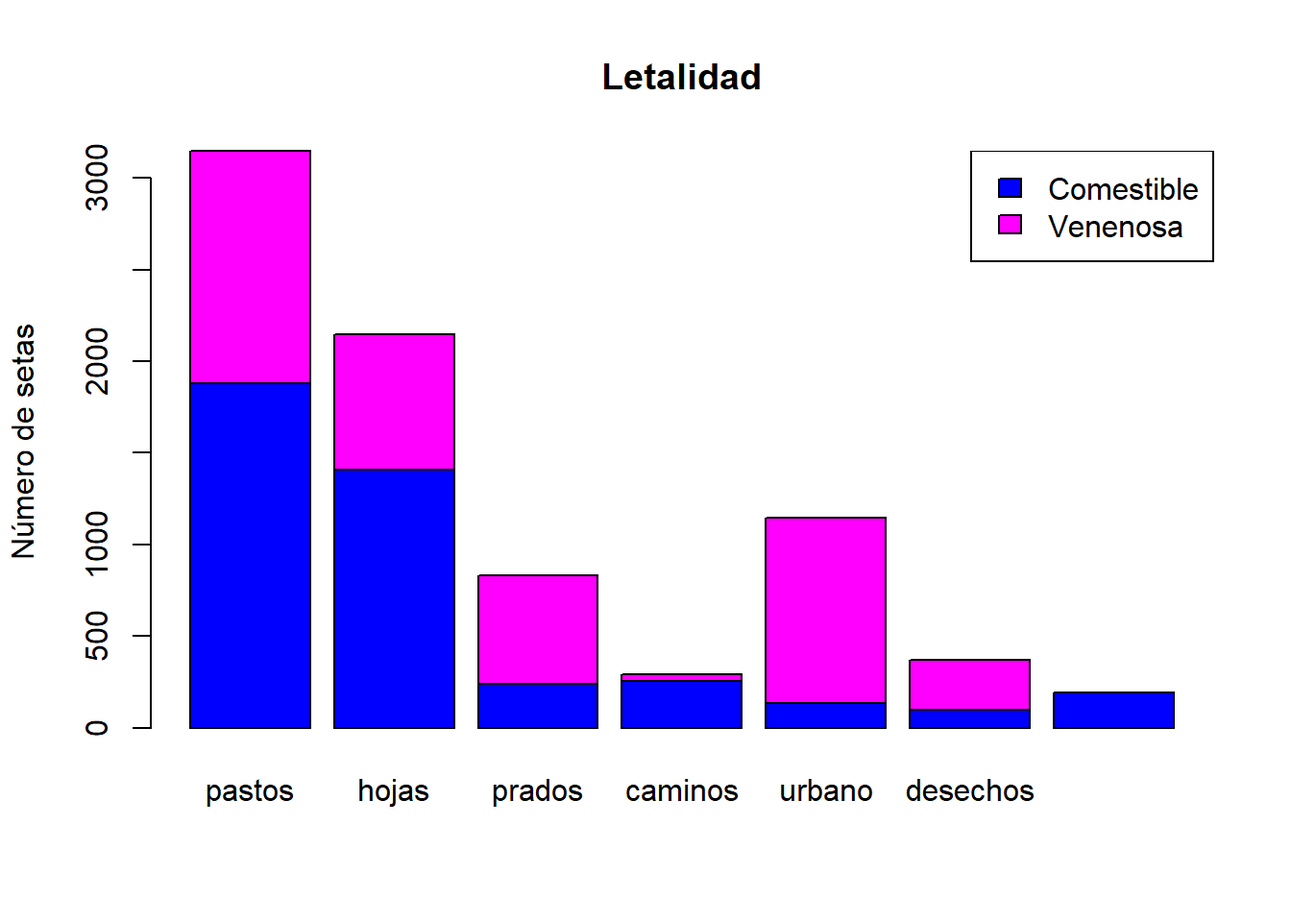
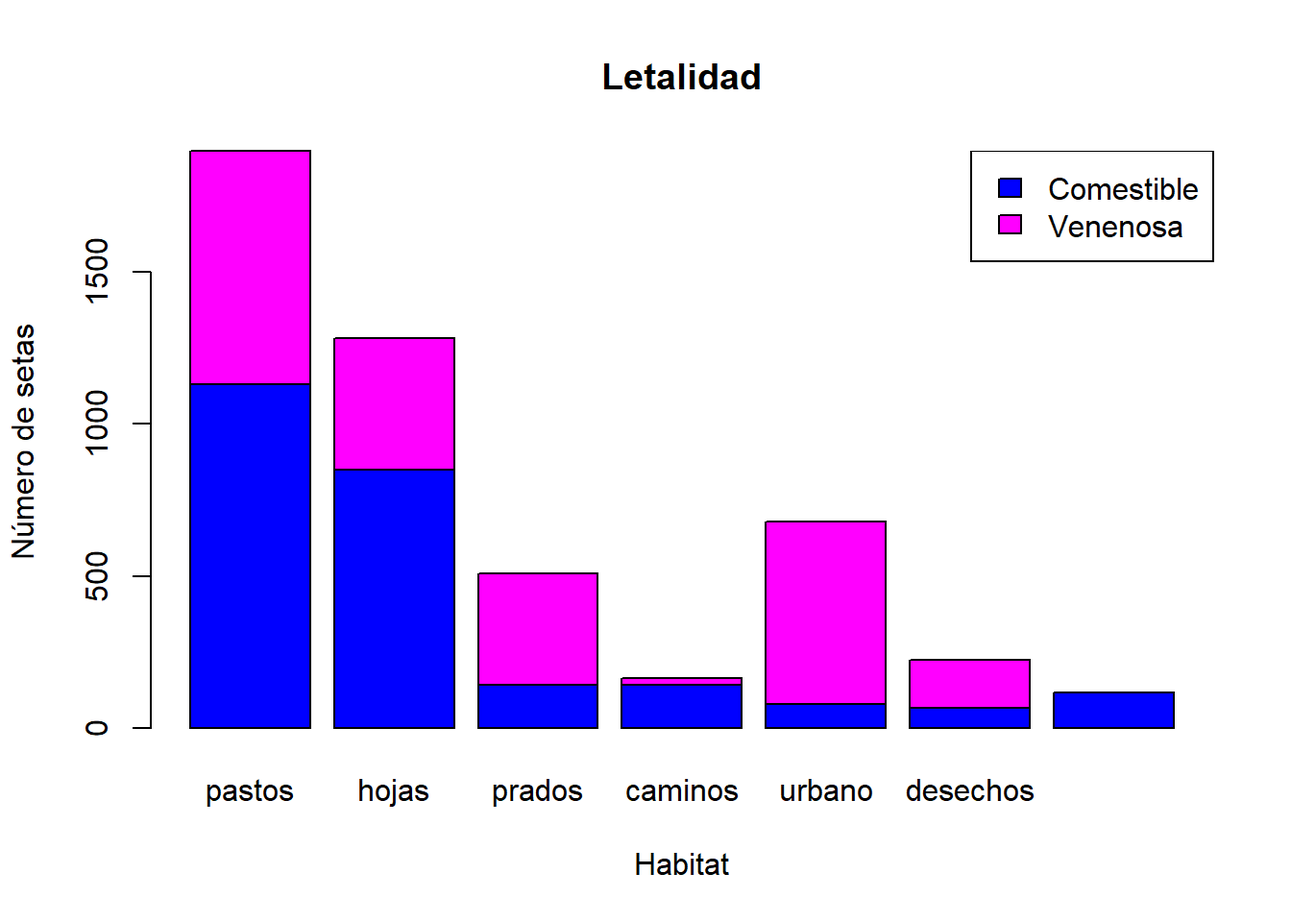
5

diff --git a/preprocesado-de-datos..html b/preprocesado-de-datos..html
@@ -134,7 +134,10 @@ code span.wa { color: #60a0b0; font-weight: bold; font-style: italic; } /* Warni
 <ul class="summary">
 <li class="chapter" data-level="1" data-path="introducción.html"><a href="introducción.html"><i class="fa fa-check"></i><b>1</b> Introducción</a></li>
 <li class="chapter" data-level="2" data-path="objetivos-del-negocio.html"><a href="objetivos-del-negocio.html"><i class="fa fa-check"></i><b>2</b> ¿ Objetivos (del negocio)?</a></li>
-<li class="chapter" data-level="3" data-path="datos.html"><a href="datos.html"><i class="fa fa-check"></i><b>3</b> Datos</a></li>
+<li class="chapter" data-level="3" data-path="datos.html"><a href="datos.html"><i class="fa fa-check"></i><b>3</b> Datos</a>
+<ul>
+<li class="chapter" data-level="3.1" data-path="datos.html"><a href="datos.html#particiones."><i class="fa fa-check"></i><b>3.1</b> Particiones.</a></li>
+</ul></li>
 <li class="chapter" data-level="4" data-path="preprocesado-de-datos..html"><a href="preprocesado-de-datos..html"><i class="fa fa-check"></i><b>4</b> Preprocesado de datos.</a>
 <ul>
 <li class="chapter" data-level="4.1" data-path="preprocesado-de-datos..html"><a href="preprocesado-de-datos..html#eda.-exploratory-data-analysis."><i class="fa fa-check"></i><b>4.1</b> EDA. Exploratory Data Analysis.</a>
@@ -180,57 +183,56 @@ code span.wa { color: #60a0b0; font-weight: bold; font-style: italic; } /* Warni
 <h1><span class="header-section-number">4</span> Preprocesado de datos.</h1>
 <p>Para poder tranformar las variables en factor, lo haremos mediante <strong>as.factor()</strong> a todas las variables de los datos.</p>
 <p>Ahora podemos ver mejor como son nuestros datos.</p>
-<div class="sourceCode" id="cb9"><pre class="sourceCode r"><code class="sourceCode r"><span id="cb9-1"><a href="preprocesado-de-datos..html#cb9-1" aria-hidden="true" tabindex="-1"></a><span class="fu">summary</span>(datos.setas)</span></code></pre></div>
+<div class="sourceCode" id="cb9"><pre class="sourceCode r"><code class="sourceCode r"><span id="cb9-1"><a href="preprocesado-de-datos..html#cb9-1" aria-hidden="true" tabindex="-1"></a><span class="fu">summary</span>(datos.setas_train)</span></code></pre></div>
 <pre><code>##  Letalidad Forma_S  Cuticula    Color_S     Escamas       Olor      Fijacion_L
-##  e:4208    b: 452   f:2320   n      :2284   f:4748   n      :3528   a: 210    
-##  p:3916    c:   4   g:   4   g      :1840   t:3376   f      :2160   f:7914    
-##            f:3152   s:2556   e      :1500            s      : 576             
-##            k: 828   y:3244   y      :1072            y      : 576             
-##            s:  32            w      :1040            a      : 400             
-##            x:3656            b      : 168            l      : 400             
-##                              (Other): 220            (Other): 484             
+##  e:2522    b: 252   f:1401   n      :1394   f:2868   n      :2127   a: 114    
+##  p:2352    c:   2   g:   3   g      :1103   t:2006   f      :1276   f:4760    
+##            f:1882   s:1529   e      : 903            s      : 365             
+##            k: 489   y:1941   y      : 626            y      : 348             
+##            s:  21            w      : 615            a      : 234             
+##            x:2228            b      :  96            l      : 228             
+##                              (Other): 137            (Other): 296             
 ##  Espacio_L Tamaño_L    Color_L     Forma_T  Tallo_raiz Superficie_T1
-##  c:6812    b:5612   b      :1728   e:3516   ?:2480     f: 552       
-##  w:1312    n:2512   p      :1492   t:4608   b:3776     k:2372       
-##                     w      :1202            c: 556     s:5176       
-##                     n      :1048            e:1120     y:  24       
-##                     g      : 752            r: 192                  
-##                     h      : 732                                    
-##                     (Other):1170                                    
+##  c:4097    b:3329   b      :1062   e:2089   ?:1499     f: 325       
+##  w: 777    n:1545   p      : 883   t:2785   b:2236     k:1413       
+##                     w      : 701            c: 324     s:3124       
+##                     n      : 623            e: 701     y:  12       
+##                     g      : 459            r: 114                  
+##                     h      : 426                                    
+##                     (Other): 720                                    
 ##  Superficie_T2    Color_T1       Color_T2    Tipo_V   Color_V  N_anillos
-##  f: 600        w      :4464   w      :4384   p:8124   n:  96   n:  36   
-##  k:2304        p      :1872   p      :1872            o:  96   o:7488   
-##  s:4936        g      : 576   g      : 576            w:7924   t: 600   
-##  y: 284        n      : 448   n      : 512            y:   8            
-##                b      : 432   b      : 432                              
-##                o      : 192   o      : 192                              
-##                (Other): 140   (Other): 156                              
+##  f: 369        w      :2681   w      :2632   p:4874   n:  53   n:  19   
+##  k:1376        p      :1127   p      :1132            o:  54   o:4511   
+##  s:2965        g      : 358   g      : 354            w:4763   t: 344   
+##  y: 164        n      : 270   n      : 310            y:   4            
+##                b      : 248   b      : 255                              
+##                o      : 107   o      : 107                              
+##                (Other):  83   (Other):  84                              
 ##  Tipo_anillo Color_esporas  Poblacion Habitat 
-##  e:2776      w      :2388   a: 384    d:3148  
-##  f:  48      n      :1968   c: 340    g:2148  
-##  l:1296      k      :1872   n: 400    l: 832  
-##  n:  36      h      :1632   s:1248    m: 292  
-##  p:3968      r      :  72   v:4040    p:1144  
-##              b      :  48   y:1712    u: 368  
-##              (Other): 144             w: 192</code></pre>
+##  e:1708      w      :1448   a: 241    d:1900  
+##  f:  32      n      :1219   c: 204    g:1284  
+##  l: 768      k      :1113   n: 223    l: 509  
+##  n:  19      h      : 959   s: 735    m: 163  
+##  p:2347      r      :  39   v:2434    p: 680  
+##              o      :  26   y:1037    u: 222  
+##              (Other):  70             w: 116</code></pre>
 <div id="eda.-exploratory-data-analysis." class="section level2" number="4.1">
 <h2><span class="header-section-number">4.1</span> EDA. Exploratory Data Analysis.</h2>
-<div class="sourceCode" id="cb11"><pre class="sourceCode r"><code class="sourceCode r"><span id="cb11-1"><a href="preprocesado-de-datos..html#cb11-1" aria-hidden="true" tabindex="-1"></a><span class="fu">attach</span>(datos.setas)</span></code></pre></div>
 <div id="letalidad" class="section level3" number="4.1.1">
 <h3><span class="header-section-number">4.1.1</span> Letalidad:</h3>
 <p>La variable <strong>letalidad</strong> tiene dos niveles distintos, venenosa (p) o comestible (e), la frecuencia relativa correspondiente a nuestros datos es:</p>
-<div class="sourceCode" id="cb12"><pre class="sourceCode r"><code class="sourceCode r"><span id="cb12-1"><a href="preprocesado-de-datos..html#cb12-1" aria-hidden="true" tabindex="-1"></a><span class="co">#Tabla:</span></span>
-<span id="cb12-2"><a href="preprocesado-de-datos..html#cb12-2" aria-hidden="true" tabindex="-1"></a><span class="fu">table</span>(datos.setas<span class="sc">$</span>Letalidad)</span></code></pre></div>
+<div class="sourceCode" id="cb11"><pre class="sourceCode r"><code class="sourceCode r"><span id="cb11-1"><a href="preprocesado-de-datos..html#cb11-1" aria-hidden="true" tabindex="-1"></a><span class="co">#Tabla:</span></span>
+<span id="cb11-2"><a href="preprocesado-de-datos..html#cb11-2" aria-hidden="true" tabindex="-1"></a><span class="fu">table</span>(datos.setas_train<span class="sc">$</span>Letalidad)</span></code></pre></div>
 <pre><code>## 
 ##    e    p 
-## 4208 3916</code></pre>
-<div class="sourceCode" id="cb14"><pre class="sourceCode r"><code class="sourceCode r"><span id="cb14-1"><a href="preprocesado-de-datos..html#cb14-1" aria-hidden="true" tabindex="-1"></a><span class="co">#Tabla de frecuencias:</span></span>
-<span id="cb14-2"><a href="preprocesado-de-datos..html#cb14-2" aria-hidden="true" tabindex="-1"></a><span class="fu">prop.table</span>(<span class="fu">table</span>(datos.setas<span class="sc">$</span>Letalidad))</span></code></pre></div>
+## 2522 2352</code></pre>
+<div class="sourceCode" id="cb13"><pre class="sourceCode r"><code class="sourceCode r"><span id="cb13-1"><a href="preprocesado-de-datos..html#cb13-1" aria-hidden="true" tabindex="-1"></a><span class="co">#Tabla de frecuencias:</span></span>
+<span id="cb13-2"><a href="preprocesado-de-datos..html#cb13-2" aria-hidden="true" tabindex="-1"></a><span class="fu">prop.table</span>(<span class="fu">table</span>(datos.setas_train<span class="sc">$</span>Letalidad))</span></code></pre></div>
 <pre><code>## 
 ##         e         p 
-## 0.5179714 0.4820286</code></pre>
-<div class="sourceCode" id="cb16"><pre class="sourceCode r"><code class="sourceCode r"><span id="cb16-1"><a href="preprocesado-de-datos..html#cb16-1" aria-hidden="true" tabindex="-1"></a><span class="co">#Gráfico</span></span>
-<span id="cb16-2"><a href="preprocesado-de-datos..html#cb16-2" aria-hidden="true" tabindex="-1"></a><span class="fu">barplot</span>(<span class="fu">table</span>(datos.setas<span class="sc">$</span>Letalidad),<span class="at">main=</span><span class="st">&quot;Letalidad&quot;</span>,<span class="at">ylab=</span><span class="st">&quot;Número de setas&quot;</span>,<span class="at">col=</span><span class="fu">c</span>(<span class="st">&quot;blue&quot;</span>,<span class="st">&quot;magenta&quot;</span>),<span class="at">names.arg=</span><span class="fu">c</span>(<span class="st">&quot;Comestible&quot;</span>,<span class="st">&quot;Venenosa&quot;</span>))</span></code></pre></div>
+## 0.5174395 0.4825605</code></pre>
+<div class="sourceCode" id="cb15"><pre class="sourceCode r"><code class="sourceCode r"><span id="cb15-1"><a href="preprocesado-de-datos..html#cb15-1" aria-hidden="true" tabindex="-1"></a><span class="co">#Gráfico</span></span>
+<span id="cb15-2"><a href="preprocesado-de-datos..html#cb15-2" aria-hidden="true" tabindex="-1"></a><span class="fu">barplot</span>(<span class="fu">table</span>(datos.setas_train<span class="sc">$</span>Letalidad),<span class="at">main=</span><span class="st">&quot;Letalidad&quot;</span>,<span class="at">ylab=</span><span class="st">&quot;Número de setas&quot;</span>,<span class="at">col=</span><span class="fu">c</span>(<span class="st">&quot;blue&quot;</span>,<span class="st">&quot;magenta&quot;</span>),<span class="at">names.arg=</span><span class="fu">c</span>(<span class="st">&quot;Comestible&quot;</span>,<span class="st">&quot;Venenosa&quot;</span>))</span></code></pre></div>
 <p><img src="MEMORIA_files/figure-html/proporcion-1.png" width="672" /></p>
 <p>Podríamos transformar esta variable para que fuera interpretada como binaria numérica (0-comestible, 1-venenosa)</p>
 <p>Una de las variables, <strong>Tipo_v</strong> tipo de volva, con dos niveles distintos, parcial (p) y universal (u), podríamos eliminarla de nuestros datos pues todo la frecuencia solo está en uno de los niveles, luego no aporta información alguna para determinar si es venenosa o comestible.</p>
@@ -239,25 +241,25 @@ code span.wa { color: #60a0b0; font-weight: bold; font-style: italic; } /* Warni
 <div id="correlación-entre-las-variables." class="section level2" number="4.2">
 <h2><span class="header-section-number">4.2</span> Correlación entre las variables.</h2>
 <p>Vamos a comprobar si existe alguna correlación entre las distintas variables.</p>
-<div class="sourceCode" id="cb17"><pre class="sourceCode r"><code class="sourceCode r"><span id="cb17-1"><a href="preprocesado-de-datos..html#cb17-1" aria-hidden="true" tabindex="-1"></a><span class="co">#Tabla de frecuencias letalidad~habitat</span></span>
-<span id="cb17-2"><a href="preprocesado-de-datos..html#cb17-2" aria-hidden="true" tabindex="-1"></a><span class="fu">table</span>(datos.setas<span class="sc">$</span>Letalidad,datos.setas<span class="sc">$</span>Habitat)</span></code></pre></div>
+<div class="sourceCode" id="cb16"><pre class="sourceCode r"><code class="sourceCode r"><span id="cb16-1"><a href="preprocesado-de-datos..html#cb16-1" aria-hidden="true" tabindex="-1"></a><span class="co">#Tabla de frecuencias letalidad~habitat</span></span>
+<span id="cb16-2"><a href="preprocesado-de-datos..html#cb16-2" aria-hidden="true" tabindex="-1"></a><span class="fu">table</span>(datos.setas_train<span class="sc">$</span>Letalidad,datos.setas_train<span class="sc">$</span>Habitat)</span></code></pre></div>
 <pre><code>##    
 ##        d    g    l    m    p    u    w
-##   e 1880 1408  240  256  136   96  192
-##   p 1268  740  592   36 1008  272    0</code></pre>
-<div class="sourceCode" id="cb19"><pre class="sourceCode r"><code class="sourceCode r"><span id="cb19-1"><a href="preprocesado-de-datos..html#cb19-1" aria-hidden="true" tabindex="-1"></a><span class="co">#Gráfico letalidad~habitat</span></span>
-<span id="cb19-2"><a href="preprocesado-de-datos..html#cb19-2" aria-hidden="true" tabindex="-1"></a><span class="fu">barplot</span>(<span class="fu">table</span>(datos.setas<span class="sc">$</span>Letalidad,datos.setas<span class="sc">$</span>Habitat),<span class="at">main=</span><span class="st">&quot;Letalidad&quot;</span>,<span class="at">ylab=</span><span class="st">&quot;Número de setas&quot;</span>,<span class="at">names.arg=</span><span class="fu">c</span>(<span class="st">&quot;pastos&quot;</span>, <span class="st">&quot;hojas&quot;</span>, <span class="st">&quot;prados&quot;</span>, <span class="st">&quot;caminos&quot;</span>, <span class="st">&quot;urbano&quot;</span>, <span class="st">&quot;desechos&quot;</span>, <span class="st">&quot;bosques&quot;</span>),<span class="at">col=</span><span class="fu">c</span>(<span class="st">&quot;blue&quot;</span>,<span class="st">&quot;magenta&quot;</span>))</span>
-<span id="cb19-3"><a href="preprocesado-de-datos..html#cb19-3" aria-hidden="true" tabindex="-1"></a><span class="fu">legend</span>(<span class="at">x =</span> <span class="st">&quot;topright&quot;</span>, <span class="at">legend =</span> <span class="fu">c</span>(<span class="st">&quot;Comestible&quot;</span>,<span class="st">&quot;Venenosa&quot;</span>), <span class="at">fill =</span> <span class="fu">c</span>(<span class="st">&quot;blue&quot;</span>, <span class="st">&quot;magenta&quot;</span>))</span></code></pre></div>
+##   e 1130  849  141  142   79   65  116
+##   p  770  435  368   21  601  157    0</code></pre>
+<div class="sourceCode" id="cb18"><pre class="sourceCode r"><code class="sourceCode r"><span id="cb18-1"><a href="preprocesado-de-datos..html#cb18-1" aria-hidden="true" tabindex="-1"></a><span class="co">#Gráfico letalidad~habitat</span></span>
+<span id="cb18-2"><a href="preprocesado-de-datos..html#cb18-2" aria-hidden="true" tabindex="-1"></a><span class="fu">barplot</span>(<span class="fu">table</span>(datos.setas_train<span class="sc">$</span>Letalidad,datos.setas_train<span class="sc">$</span>Habitat),<span class="at">main=</span><span class="st">&quot;Letalidad&quot;</span>,<span class="at">xlab=</span><span class="st">&quot;Habitat&quot;</span>,<span class="at">ylab=</span><span class="st">&quot;Número de setas&quot;</span>,<span class="at">names.arg=</span><span class="fu">c</span>(<span class="st">&quot;pastos&quot;</span>, <span class="st">&quot;hojas&quot;</span>, <span class="st">&quot;prados&quot;</span>, <span class="st">&quot;caminos&quot;</span>, <span class="st">&quot;urbano&quot;</span>, <span class="st">&quot;desechos&quot;</span>, <span class="st">&quot;bosques&quot;</span>),<span class="at">col=</span><span class="fu">c</span>(<span class="st">&quot;blue&quot;</span>,<span class="st">&quot;magenta&quot;</span>))</span>
+<span id="cb18-3"><a href="preprocesado-de-datos..html#cb18-3" aria-hidden="true" tabindex="-1"></a><span class="fu">legend</span>(<span class="at">x =</span> <span class="st">&quot;topright&quot;</span>, <span class="at">legend =</span> <span class="fu">c</span>(<span class="st">&quot;Comestible&quot;</span>,<span class="st">&quot;Venenosa&quot;</span>), <span class="at">fill =</span> <span class="fu">c</span>(<span class="st">&quot;blue&quot;</span>, <span class="st">&quot;magenta&quot;</span>))</span></code></pre></div>
 <p><img src="MEMORIA_files/figure-html/correlacion-1.png" width="672" /></p>
-<div class="sourceCode" id="cb20"><pre class="sourceCode r"><code class="sourceCode r"><span id="cb20-1"><a href="preprocesado-de-datos..html#cb20-1" aria-hidden="true" tabindex="-1"></a><span class="co">#Tabla de frecuencias letalidad~poblacion</span></span>
-<span id="cb20-2"><a href="preprocesado-de-datos..html#cb20-2" aria-hidden="true" tabindex="-1"></a><span class="fu">table</span>(datos.setas<span class="sc">$</span>Letalidad,datos.setas<span class="sc">$</span>Poblacion)</span></code></pre></div>
+<div class="sourceCode" id="cb19"><pre class="sourceCode r"><code class="sourceCode r"><span id="cb19-1"><a href="preprocesado-de-datos..html#cb19-1" aria-hidden="true" tabindex="-1"></a><span class="co">#Tabla de frecuencias letalidad~poblacion</span></span>
+<span id="cb19-2"><a href="preprocesado-de-datos..html#cb19-2" aria-hidden="true" tabindex="-1"></a><span class="fu">table</span>(datos.setas_train<span class="sc">$</span>Letalidad,datos.setas_train<span class="sc">$</span>Poblacion)</span></code></pre></div>
 <pre><code>##    
 ##        a    c    n    s    v    y
-##   e  384  288  400  880 1192 1064
-##   p    0   52    0  368 2848  648</code></pre>
-<div class="sourceCode" id="cb22"><pre class="sourceCode r"><code class="sourceCode r"><span id="cb22-1"><a href="preprocesado-de-datos..html#cb22-1" aria-hidden="true" tabindex="-1"></a><span class="co">#Gráfico letalidad~habitat</span></span>
-<span id="cb22-2"><a href="preprocesado-de-datos..html#cb22-2" aria-hidden="true" tabindex="-1"></a><span class="fu">barplot</span>(<span class="fu">table</span>(datos.setas<span class="sc">$</span>Letalidad,datos.setas<span class="sc">$</span>Poblacion),<span class="at">main=</span><span class="st">&quot;Letalidad&quot;</span>,<span class="at">ylab=</span><span class="st">&quot;Número de setas&quot;</span>,<span class="at">names.arg=</span><span class="fu">c</span>(<span class="st">&quot;abundante&quot;</span>, <span class="st">&quot;agrupada&quot;</span>, <span class="st">&quot;numerosa&quot;</span>, <span class="st">&quot;dispersa&quot;</span>, <span class="st">&quot;varias&quot;</span>, <span class="st">&quot;solitaria&quot;</span>),<span class="at">col=</span><span class="fu">c</span>(<span class="st">&quot;blue&quot;</span>,<span class="st">&quot;magenta&quot;</span>))</span>
-<span id="cb22-3"><a href="preprocesado-de-datos..html#cb22-3" aria-hidden="true" tabindex="-1"></a><span class="fu">legend</span>(<span class="at">x =</span> <span class="st">&quot;topright&quot;</span>, <span class="at">legend =</span> <span class="fu">c</span>(<span class="st">&quot;Comestible&quot;</span>,<span class="st">&quot;Venenosa&quot;</span>), <span class="at">fill =</span> <span class="fu">c</span>(<span class="st">&quot;blue&quot;</span>, <span class="st">&quot;magenta&quot;</span>))</span></code></pre></div>
+##   e  241  176  223  530  707  645
+##   p    0   28    0  205 1727  392</code></pre>
+<div class="sourceCode" id="cb21"><pre class="sourceCode r"><code class="sourceCode r"><span id="cb21-1"><a href="preprocesado-de-datos..html#cb21-1" aria-hidden="true" tabindex="-1"></a><span class="co">#Gráfico letalidad~habitat</span></span>
+<span id="cb21-2"><a href="preprocesado-de-datos..html#cb21-2" aria-hidden="true" tabindex="-1"></a><span class="fu">barplot</span>(<span class="fu">table</span>(datos.setas_train<span class="sc">$</span>Letalidad,datos.setas_train<span class="sc">$</span>Poblacion),<span class="at">main=</span><span class="st">&quot;Letalidad&quot;</span>,<span class="at">xlab=</span><span class="st">&quot;Poblacion&quot;</span>,<span class="at">ylab=</span><span class="st">&quot;Número de setas&quot;</span>,<span class="at">names.arg=</span><span class="fu">c</span>(<span class="st">&quot;abundante&quot;</span>, <span class="st">&quot;agrupada&quot;</span>, <span class="st">&quot;numerosa&quot;</span>, <span class="st">&quot;dispersa&quot;</span>, <span class="st">&quot;varias&quot;</span>, <span class="st">&quot;solitaria&quot;</span>),<span class="at">col=</span><span class="fu">c</span>(<span class="st">&quot;blue&quot;</span>,<span class="st">&quot;magenta&quot;</span>))</span>
+<span id="cb21-3"><a href="preprocesado-de-datos..html#cb21-3" aria-hidden="true" tabindex="-1"></a><span class="fu">legend</span>(<span class="at">x =</span> <span class="st">&quot;topright&quot;</span>, <span class="at">legend =</span> <span class="fu">c</span>(<span class="st">&quot;Comestible&quot;</span>,<span class="st">&quot;Venenosa&quot;</span>), <span class="at">fill =</span> <span class="fu">c</span>(<span class="st">&quot;blue&quot;</span>, <span class="st">&quot;magenta&quot;</span>))</span></code></pre></div>
 <p><img src="MEMORIA_files/figure-html/correlacion-2.png" width="672" /></p>
 </div>
 <div id="transformación-de-variables" class="section level2" number="4.3">

diff --git a/datos.html b/datos.html
@@ -134,7 +134,10 @@ code span.wa { color: #60a0b0; font-weight: bold; font-style: italic; } /* Warni
 <ul class="summary">
 <li class="chapter" data-level="1" data-path="introducción.html"><a href="introducción.html"><i class="fa fa-check"></i><b>1</b> Introducción</a></li>
 <li class="chapter" data-level="2" data-path="objetivos-del-negocio.html"><a href="objetivos-del-negocio.html"><i class="fa fa-check"></i><b>2</b> ¿ Objetivos (del negocio)?</a></li>
-<li class="chapter" data-level="3" data-path="datos.html"><a href="datos.html"><i class="fa fa-check"></i><b>3</b> Datos</a></li>
+<li class="chapter" data-level="3" data-path="datos.html"><a href="datos.html"><i class="fa fa-check"></i><b>3</b> Datos</a>
+<ul>
+<li class="chapter" data-level="3.1" data-path="datos.html"><a href="datos.html#particiones."><i class="fa fa-check"></i><b>3.1</b> Particiones.</a></li>
+</ul></li>
 <li class="chapter" data-level="4" data-path="preprocesado-de-datos..html"><a href="preprocesado-de-datos..html"><i class="fa fa-check"></i><b>4</b> Preprocesado de datos.</a>
 <ul>
 <li class="chapter" data-level="4.1" data-path="preprocesado-de-datos..html"><a href="preprocesado-de-datos..html#eda.-exploratory-data-analysis."><i class="fa fa-check"></i><b>4.1</b> EDA. Exploratory Data Analysis.</a>
@@ -179,13 +182,13 @@ code span.wa { color: #60a0b0; font-weight: bold; font-style: italic; } /* Warni
 <div id="datos" class="section level1" number="3">
 <h1><span class="header-section-number">3</span> Datos</h1>
 <p>Leemos los datos mediante el siguiente comando:</p>
-<div class="sourceCode" id="cb3"><pre class="sourceCode r"><code class="sourceCode r"><span id="cb3-1"><a href="datos.html#cb3-1" aria-hidden="true" tabindex="-1"></a>datos.setas<span class="ot">&lt;-</span><span class="fu">read.table</span>(<span class="st">&quot;D:/URJC/CURSO 2021-2022/ASIGNATURAS/CUATRIMESTRE 1/MINERIA DE DATOS/MEMORIA/DATOS/agaricus-lepiota.data&quot;</span>,<span class="at">header=</span><span class="cn">FALSE</span>,<span class="at">sep=</span><span class="st">&quot;,&quot;</span>)</span></code></pre></div>
+<div class="sourceCode" id="cb2"><pre class="sourceCode r"><code class="sourceCode r"><span id="cb2-1"><a href="datos.html#cb2-1" aria-hidden="true" tabindex="-1"></a>datos.setas<span class="ot">&lt;-</span><span class="fu">read.table</span>(<span class="st">&quot;D:/URJC/CURSO 2021-2022/ASIGNATURAS/CUATRIMESTRE 1/MINERIA DE DATOS/MEMORIA/DATOS/agaricus-lepiota.data&quot;</span>,<span class="at">header=</span><span class="cn">FALSE</span>,<span class="at">sep=</span><span class="st">&quot;,&quot;</span>)</span></code></pre></div>
 <p>Comprobamos que se han leído correctamente los datos mirando la dimensión de los datos.</p>
-<div class="sourceCode" id="cb4"><pre class="sourceCode r"><code class="sourceCode r"><span id="cb4-1"><a href="datos.html#cb4-1" aria-hidden="true" tabindex="-1"></a><span class="fu">dim</span>(datos.setas)</span></code></pre></div>
+<div class="sourceCode" id="cb3"><pre class="sourceCode r"><code class="sourceCode r"><span id="cb3-1"><a href="datos.html#cb3-1" aria-hidden="true" tabindex="-1"></a><span class="fu">dim</span>(datos.setas)</span></code></pre></div>
 <pre><code>## [1] 8124   23</code></pre>
 <p>Como ya hemos visto, disponemos de 8124 observaciones de setas de las cuales hemos recogido información sobre 23 características.</p>
 <p>Realizamos una exploración básica de los datos para comprobar que tipo de datos disponemos.</p>
-<div class="sourceCode" id="cb6"><pre class="sourceCode r"><code class="sourceCode r"><span id="cb6-1"><a href="datos.html#cb6-1" aria-hidden="true" tabindex="-1"></a><span class="fu">summary</span>(datos.setas)</span></code></pre></div>
+<div class="sourceCode" id="cb5"><pre class="sourceCode r"><code class="sourceCode r"><span id="cb5-1"><a href="datos.html#cb5-1" aria-hidden="true" tabindex="-1"></a><span class="fu">summary</span>(datos.setas)</span></code></pre></div>
 <pre><code>##       V1                 V2                 V3                 V4           
 ##  Length:8124        Length:8124        Length:8124        Length:8124       
 ##  Class :character   Class :character   Class :character   Class :character  
@@ -318,7 +321,26 @@ code span.wa { color: #60a0b0; font-weight: bold; font-style: italic; } /* Warni
 </tbody>
 </table>
 <p>Vamos a llamar a las variables como la caracteristica que ejemplifican.</p>
-<div class="sourceCode" id="cb8"><pre class="sourceCode r"><code class="sourceCode r"><span id="cb8-1"><a href="datos.html#cb8-1" aria-hidden="true" tabindex="-1"></a><span class="fu">colnames</span>(datos.setas)<span class="ot">=</span><span class="fu">c</span>(<span class="st">&quot;Letalidad&quot;</span>,<span class="st">&quot;Forma_S&quot;</span>,<span class="st">&quot;Cuticula&quot;</span>,<span class="st">&quot;Color_S&quot;</span>,<span class="st">&quot;Escamas&quot;</span>,<span class="st">&quot;Olor&quot;</span>,<span class="st">&quot;Fijacion_L&quot;</span>,<span class="st">&quot;Espacio_L&quot;</span>,<span class="st">&quot;Tamaño_L&quot;</span>,<span class="st">&quot;Color_L&quot;</span>,<span class="st">&quot;Forma_T&quot;</span>,<span class="st">&quot;Tallo_raiz&quot;</span>,<span class="st">&quot;Superficie_T1&quot;</span>,<span class="st">&quot;Superficie_T2&quot;</span>,<span class="st">&quot;Color_T1&quot;</span>,<span class="st">&quot;Color_T2&quot;</span>,<span class="st">&quot;Tipo_V&quot;</span>,<span class="st">&quot;Color_V&quot;</span>,<span class="st">&quot;N_anillos&quot;</span>,<span class="st">&quot;Tipo_anillo&quot;</span>,<span class="st">&quot;Color_esporas&quot;</span>,<span class="st">&quot;Poblacion&quot;</span>,<span class="st">&quot;Habitat&quot;</span>)</span></code></pre></div>
+<div class="sourceCode" id="cb7"><pre class="sourceCode r"><code class="sourceCode r"><span id="cb7-1"><a href="datos.html#cb7-1" aria-hidden="true" tabindex="-1"></a><span class="fu">colnames</span>(datos.setas)<span class="ot">=</span><span class="fu">c</span>(<span class="st">&quot;Letalidad&quot;</span>,<span class="st">&quot;Forma_S&quot;</span>,<span class="st">&quot;Cuticula&quot;</span>,<span class="st">&quot;Color_S&quot;</span>,<span class="st">&quot;Escamas&quot;</span>,<span class="st">&quot;Olor&quot;</span>,<span class="st">&quot;Fijacion_L&quot;</span>,<span class="st">&quot;Espacio_L&quot;</span>,<span class="st">&quot;Tamaño_L&quot;</span>,<span class="st">&quot;Color_L&quot;</span>,<span class="st">&quot;Forma_T&quot;</span>,<span class="st">&quot;Tallo_raiz&quot;</span>,<span class="st">&quot;Superficie_T1&quot;</span>,<span class="st">&quot;Superficie_T2&quot;</span>,<span class="st">&quot;Color_T1&quot;</span>,<span class="st">&quot;Color_T2&quot;</span>,<span class="st">&quot;Tipo_V&quot;</span>,<span class="st">&quot;Color_V&quot;</span>,<span class="st">&quot;N_anillos&quot;</span>,<span class="st">&quot;Tipo_anillo&quot;</span>,<span class="st">&quot;Color_esporas&quot;</span>,<span class="st">&quot;Poblacion&quot;</span>,<span class="st">&quot;Habitat&quot;</span>)</span></code></pre></div>
+<div id="particiones." class="section level2" number="3.1">
+<h2><span class="header-section-number">3.1</span> Particiones.</h2>
+<div class="sourceCode" id="cb8"><pre class="sourceCode r"><code class="sourceCode r"><span id="cb8-1"><a href="datos.html#cb8-1" aria-hidden="true" tabindex="-1"></a>n_totales<span class="ot">=</span><span class="fu">dim</span>(datos.setas)[<span class="dv">1</span>]</span>
+<span id="cb8-2"><a href="datos.html#cb8-2" aria-hidden="true" tabindex="-1"></a>n_train<span class="ot">=</span><span class="fu">floor</span>(n_totales<span class="sc">*</span><span class="fl">0.6</span>) <span class="co"># el 60% de los datos los utilizamos para entrenar los modelos</span></span>
+<span id="cb8-3"><a href="datos.html#cb8-3" aria-hidden="true" tabindex="-1"></a>n_test<span class="ot">=</span><span class="fu">floor</span>(n_totales<span class="sc">*</span><span class="fl">0.2</span>) <span class="co"># el 20% para test</span></span>
+<span id="cb8-4"><a href="datos.html#cb8-4" aria-hidden="true" tabindex="-1"></a>n_validacion<span class="ot">=</span>n_totales<span class="sc">-</span>n_train<span class="sc">-</span>n_test</span>
+<span id="cb8-5"><a href="datos.html#cb8-5" aria-hidden="true" tabindex="-1"></a></span>
+<span id="cb8-6"><a href="datos.html#cb8-6" aria-hidden="true" tabindex="-1"></a><span class="fu">set.seed</span>(<span class="dv">34735</span>)</span>
+<span id="cb8-7"><a href="datos.html#cb8-7" aria-hidden="true" tabindex="-1"></a></span>
+<span id="cb8-8"><a href="datos.html#cb8-8" aria-hidden="true" tabindex="-1"></a>indices_totales<span class="ot">=</span><span class="fu">seq</span>(<span class="dv">1</span><span class="sc">:</span>n_totales)</span>
+<span id="cb8-9"><a href="datos.html#cb8-9" aria-hidden="true" tabindex="-1"></a>indices_train<span class="ot">=</span><span class="fu">sample</span>(indices_totales,n_train)</span>
+<span id="cb8-10"><a href="datos.html#cb8-10" aria-hidden="true" tabindex="-1"></a>indices_test<span class="ot">=</span><span class="fu">sample</span>(indices_totales[<span class="sc">-</span>indices_train],n_test)</span>
+<span id="cb8-11"><a href="datos.html#cb8-11" aria-hidden="true" tabindex="-1"></a>indices_validacion<span class="ot">=</span>indices_totales[<span class="sc">-</span><span class="fu">c</span>(indices_train,indices_test)]</span>
+<span id="cb8-12"><a href="datos.html#cb8-12" aria-hidden="true" tabindex="-1"></a></span>
+<span id="cb8-13"><a href="datos.html#cb8-13" aria-hidden="true" tabindex="-1"></a></span>
+<span id="cb8-14"><a href="datos.html#cb8-14" aria-hidden="true" tabindex="-1"></a>datos.setas_train<span class="ot">=</span>datos.setas[indices_train,]</span>
+<span id="cb8-15"><a href="datos.html#cb8-15" aria-hidden="true" tabindex="-1"></a>datos.setas_test<span class="ot">=</span>datos.setas[indices_test,]</span>
+<span id="cb8-16"><a href="datos.html#cb8-16" aria-hidden="true" tabindex="-1"></a>datos.setas_validacion<span class="ot">=</span>datos.setas[indices_validacion,]</span></code></pre></div>
+</div>
 </div>
             </section>
 

diff --git a/introducción.html b/introducción.html
@@ -134,7 +134,10 @@ code span.wa { color: #60a0b0; font-weight: bold; font-style: italic; } /* Warni
 <ul class="summary">
 <li class="chapter" data-level="1" data-path="introducción.html"><a href="introducción.html"><i class="fa fa-check"></i><b>1</b> Introducción</a></li>
 <li class="chapter" data-level="2" data-path="objetivos-del-negocio.html"><a href="objetivos-del-negocio.html"><i class="fa fa-check"></i><b>2</b> ¿ Objetivos (del negocio)?</a></li>
-<li class="chapter" data-level="3" data-path="datos.html"><a href="datos.html"><i class="fa fa-check"></i><b>3</b> Datos</a></li>
+<li class="chapter" data-level="3" data-path="datos.html"><a href="datos.html"><i class="fa fa-check"></i><b>3</b> Datos</a>
+<ul>
+<li class="chapter" data-level="3.1" data-path="datos.html"><a href="datos.html#particiones."><i class="fa fa-check"></i><b>3.1</b> Particiones.</a></li>
+</ul></li>
 <li class="chapter" data-level="4" data-path="preprocesado-de-datos..html"><a href="preprocesado-de-datos..html"><i class="fa fa-check"></i><b>4</b> Preprocesado de datos.</a>
 <ul>
 <li class="chapter" data-level="4.1" data-path="preprocesado-de-datos..html"><a href="preprocesado-de-datos..html#eda.-exploratory-data-analysis."><i class="fa fa-check"></i><b>4.1</b> EDA. Exploratory Data Analysis.</a>
@@ -185,9 +188,7 @@ code span.wa { color: #60a0b0; font-weight: bold; font-style: italic; } /* Warni
 <h1><span class="header-section-number">1</span> Introducción</h1>
 <p>Este conjunto de datos incluye descripciones de muestras hipotéticas basándose en carracterísticas de hongos de la familia Agaricus y Lepiota.</p>
 <p>Para visualizar mejor nuestro análisis necesitamos cargar las siguientes librerías:</p>
-<div class="sourceCode" id="cb1"><pre class="sourceCode r"><code class="sourceCode r"><span id="cb1-1"><a href="introducción.html#cb1-1" aria-hidden="true" tabindex="-1"></a><span class="fu">library</span>(ggplot2)</span>
-<span id="cb1-2"><a href="introducción.html#cb1-2" aria-hidden="true" tabindex="-1"></a><span class="fu">library</span>(corrplot)</span></code></pre></div>
-<pre><code>## corrplot 0.84 loaded</code></pre>
+<div class="sourceCode" id="cb1"><pre class="sourceCode r"><code class="sourceCode r"><span id="cb1-1"><a href="introducción.html#cb1-1" aria-hidden="true" tabindex="-1"></a><span class="fu">library</span>(ggplot2)</span></code></pre></div>
 </div>
             </section>
 

diff --git a/actualización-del-modelo.html b/actualización-del-modelo.html
@@ -134,7 +134,10 @@ code span.wa { color: #60a0b0; font-weight: bold; font-style: italic; } /* Warni
 <ul class="summary">
 <li class="chapter" data-level="1" data-path="introducción.html"><a href="introducción.html"><i class="fa fa-check"></i><b>1</b> Introducción</a></li>
 <li class="chapter" data-level="2" data-path="objetivos-del-negocio.html"><a href="objetivos-del-negocio.html"><i class="fa fa-check"></i><b>2</b> ¿ Objetivos (del negocio)?</a></li>
-<li class="chapter" data-level="3" data-path="datos.html"><a href="datos.html"><i class="fa fa-check"></i><b>3</b> Datos</a></li>
+<li class="chapter" data-level="3" data-path="datos.html"><a href="datos.html"><i class="fa fa-check"></i><b>3</b> Datos</a>
+<ul>
+<li class="chapter" data-level="3.1" data-path="datos.html"><a href="datos.html#particiones."><i class="fa fa-check"></i><b>3.1</b> Particiones.</a></li>
+</ul></li>
 <li class="chapter" data-level="4" data-path="preprocesado-de-datos..html"><a href="preprocesado-de-datos..html"><i class="fa fa-check"></i><b>4</b> Preprocesado de datos.</a>
 <ul>
 <li class="chapter" data-level="4.1" data-path="preprocesado-de-datos..html"><a href="preprocesado-de-datos..html#eda.-exploratory-data-analysis."><i class="fa fa-check"></i><b>4.1</b> EDA. Exploratory Data Analysis.</a>

diff --git a/evaluación.html b/evaluación.html
@@ -134,7 +134,10 @@ code span.wa { color: #60a0b0; font-weight: bold; font-style: italic; } /* Warni
 <ul class="summary">
 <li class="chapter" data-level="1" data-path="introducción.html"><a href="introducción.html"><i class="fa fa-check"></i><b>1</b> Introducción</a></li>
 <li class="chapter" data-level="2" data-path="objetivos-del-negocio.html"><a href="objetivos-del-negocio.html"><i class="fa fa-check"></i><b>2</b> ¿ Objetivos (del negocio)?</a></li>
-<li class="chapter" data-level="3" data-path="datos.html"><a href="datos.html"><i class="fa fa-check"></i><b>3</b> Datos</a></li>
+<li class="chapter" data-level="3" data-path="datos.html"><a href="datos.html"><i class="fa fa-check"></i><b>3</b> Datos</a>
+<ul>
+<li class="chapter" data-level="3.1" data-path="datos.html"><a href="datos.html#particiones."><i class="fa fa-check"></i><b>3.1</b> Particiones.</a></li>
+</ul></li>
 <li class="chapter" data-level="4" data-path="preprocesado-de-datos..html"><a href="preprocesado-de-datos..html"><i class="fa fa-check"></i><b>4</b> Preprocesado de datos.</a>
 <ul>
 <li class="chapter" data-level="4.1" data-path="preprocesado-de-datos..html"><a href="preprocesado-de-datos..html#eda.-exploratory-data-analysis."><i class="fa fa-check"></i><b>4.1</b> EDA. Exploratory Data Analysis.</a>

diff --git a/modelado.html b/modelado.html
@@ -134,7 +134,10 @@ code span.wa { color: #60a0b0; font-weight: bold; font-style: italic; } /* Warni
 <ul class="summary">
 <li class="chapter" data-level="1" data-path="introducción.html"><a href="introducción.html"><i class="fa fa-check"></i><b>1</b> Introducción</a></li>
 <li class="chapter" data-level="2" data-path="objetivos-del-negocio.html"><a href="objetivos-del-negocio.html"><i class="fa fa-check"></i><b>2</b> ¿ Objetivos (del negocio)?</a></li>
-<li class="chapter" data-level="3" data-path="datos.html"><a href="datos.html"><i class="fa fa-check"></i><b>3</b> Datos</a></li>
+<li class="chapter" data-level="3" data-path="datos.html"><a href="datos.html"><i class="fa fa-check"></i><b>3</b> Datos</a>
+<ul>
+<li class="chapter" data-level="3.1" data-path="datos.html"><a href="datos.html#particiones."><i class="fa fa-check"></i><b>3.1</b> Particiones.</a></li>
+</ul></li>
 <li class="chapter" data-level="4" data-path="preprocesado-de-datos..html"><a href="preprocesado-de-datos..html"><i class="fa fa-check"></i><b>4</b> Preprocesado de datos.</a>
 <ul>
 <li class="chapter" data-level="4.1" data-path="preprocesado-de-datos..html"><a href="preprocesado-de-datos..html#eda.-exploratory-data-analysis."><i class="fa fa-check"></i><b>4.1</b> EDA. Exploratory Data Analysis.</a>

diff --git a/objetivos-del-negocio.html b/objetivos-del-negocio.html
@@ -134,7 +134,10 @@ code span.wa { color: #60a0b0; font-weight: bold; font-style: italic; } /* Warni
 <ul class="summary">
 <li class="chapter" data-level="1" data-path="introducción.html"><a href="introducción.html"><i class="fa fa-check"></i><b>1</b> Introducción</a></li>
 <li class="chapter" data-level="2" data-path="objetivos-del-negocio.html"><a href="objetivos-del-negocio.html"><i class="fa fa-check"></i><b>2</b> ¿ Objetivos (del negocio)?</a></li>
-<li class="chapter" data-level="3" data-path="datos.html"><a href="datos.html"><i class="fa fa-check"></i><b>3</b> Datos</a></li>
+<li class="chapter" data-level="3" data-path="datos.html"><a href="datos.html"><i class="fa fa-check"></i><b>3</b> Datos</a>
+<ul>
+<li class="chapter" data-level="3.1" data-path="datos.html"><a href="datos.html#particiones."><i class="fa fa-check"></i><b>3.1</b> Particiones.</a></li>
+</ul></li>
 <li class="chapter" data-level="4" data-path="preprocesado-de-datos..html"><a href="preprocesado-de-datos..html"><i class="fa fa-check"></i><b>4</b> Preprocesado de datos.</a>
 <ul>
 <li class="chapter" data-level="4.1" data-path="preprocesado-de-datos..html"><a href="preprocesado-de-datos..html#eda.-exploratory-data-analysis."><i class="fa fa-check"></i><b>4.1</b> EDA. Exploratory Data Analysis.</a>

diff --git a/puesta-en-producción.html b/puesta-en-producción.html
@@ -134,7 +134,10 @@ code span.wa { color: #60a0b0; font-weight: bold; font-style: italic; } /* Warni
 <ul class="summary">
 <li class="chapter" data-level="1" data-path="introducción.html"><a href="introducción.html"><i class="fa fa-check"></i><b>1</b> Introducción</a></li>
 <li class="chapter" data-level="2" data-path="objetivos-del-negocio.html"><a href="objetivos-del-negocio.html"><i class="fa fa-check"></i><b>2</b> ¿ Objetivos (del negocio)?</a></li>
-<li class="chapter" data-level="3" data-path="datos.html"><a href="datos.html"><i class="fa fa-check"></i><b>3</b> Datos</a></li>
+<li class="chapter" data-level="3" data-path="datos.html"><a href="datos.html"><i class="fa fa-check"></i><b>3</b> Datos</a>
+<ul>
+<li class="chapter" data-level="3.1" data-path="datos.html"><a href="datos.html#particiones."><i class="fa fa-check"></i><b>3.1</b> Particiones.</a></li>
+</ul></li>
 <li class="chapter" data-level="4" data-path="preprocesado-de-datos..html"><a href="preprocesado-de-datos..html"><i class="fa fa-check"></i><b>4</b> Preprocesado de datos.</a>
 <ul>
 <li class="chapter" data-level="4.1" data-path="preprocesado-de-datos..html"><a href="preprocesado-de-datos..html#eda.-exploratory-data-analysis."><i class="fa fa-check"></i><b>4.1</b> EDA. Exploratory Data Analysis.</a>

diff --git a/visualización-y-presentación-de-resultados.html b/visualización-y-presentación-de-resultados.html
@@ -134,7 +134,10 @@ code span.wa { color: #60a0b0; font-weight: bold; font-style: italic; } /* Warni
 <ul class="summary">
 <li class="chapter" data-level="1" data-path="introducción.html"><a href="introducción.html"><i class="fa fa-check"></i><b>1</b> Introducción</a></li>
 <li class="chapter" data-level="2" data-path="objetivos-del-negocio.html"><a href="objetivos-del-negocio.html"><i class="fa fa-check"></i><b>2</b> ¿ Objetivos (del negocio)?</a></li>
-<li class="chapter" data-level="3" data-path="datos.html"><a href="datos.html"><i class="fa fa-check"></i><b>3</b> Datos</a></li>
+<li class="chapter" data-level="3" data-path="datos.html"><a href="datos.html"><i class="fa fa-check"></i><b>3</b> Datos</a>
+<ul>
+<li class="chapter" data-level="3.1" data-path="datos.html"><a href="datos.html#particiones."><i class="fa fa-check"></i><b>3.1</b> Particiones.</a></li>
+</ul></li>
 <li class="chapter" data-level="4" data-path="preprocesado-de-datos..html"><a href="preprocesado-de-datos..html"><i class="fa fa-check"></i><b>4</b> Preprocesado de datos.</a>
 <ul>
 <li class="chapter" data-level="4.1" data-path="preprocesado-de-datos..html"><a href="preprocesado-de-datos..html#eda.-exploratory-data-analysis."><i class="fa fa-check"></i><b>4.1</b> EDA. Exploratory Data Analysis.</a>
